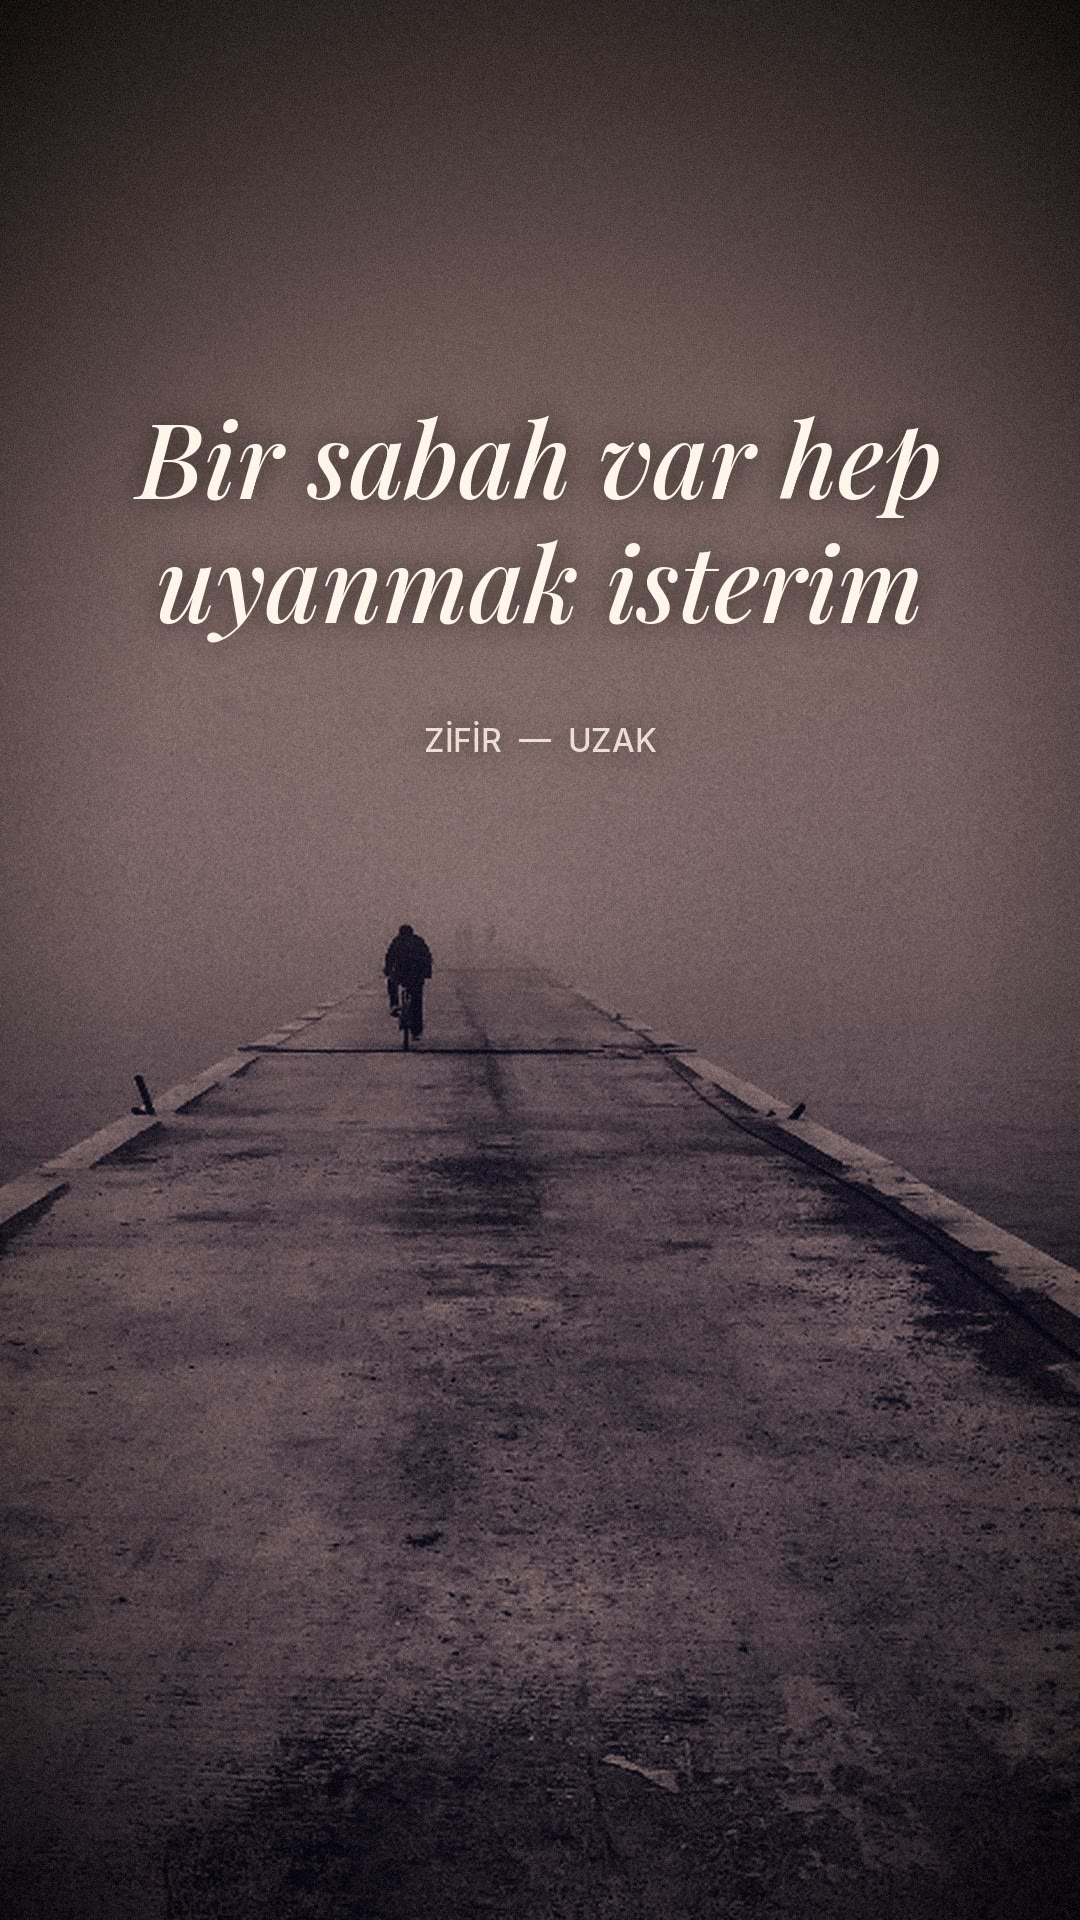
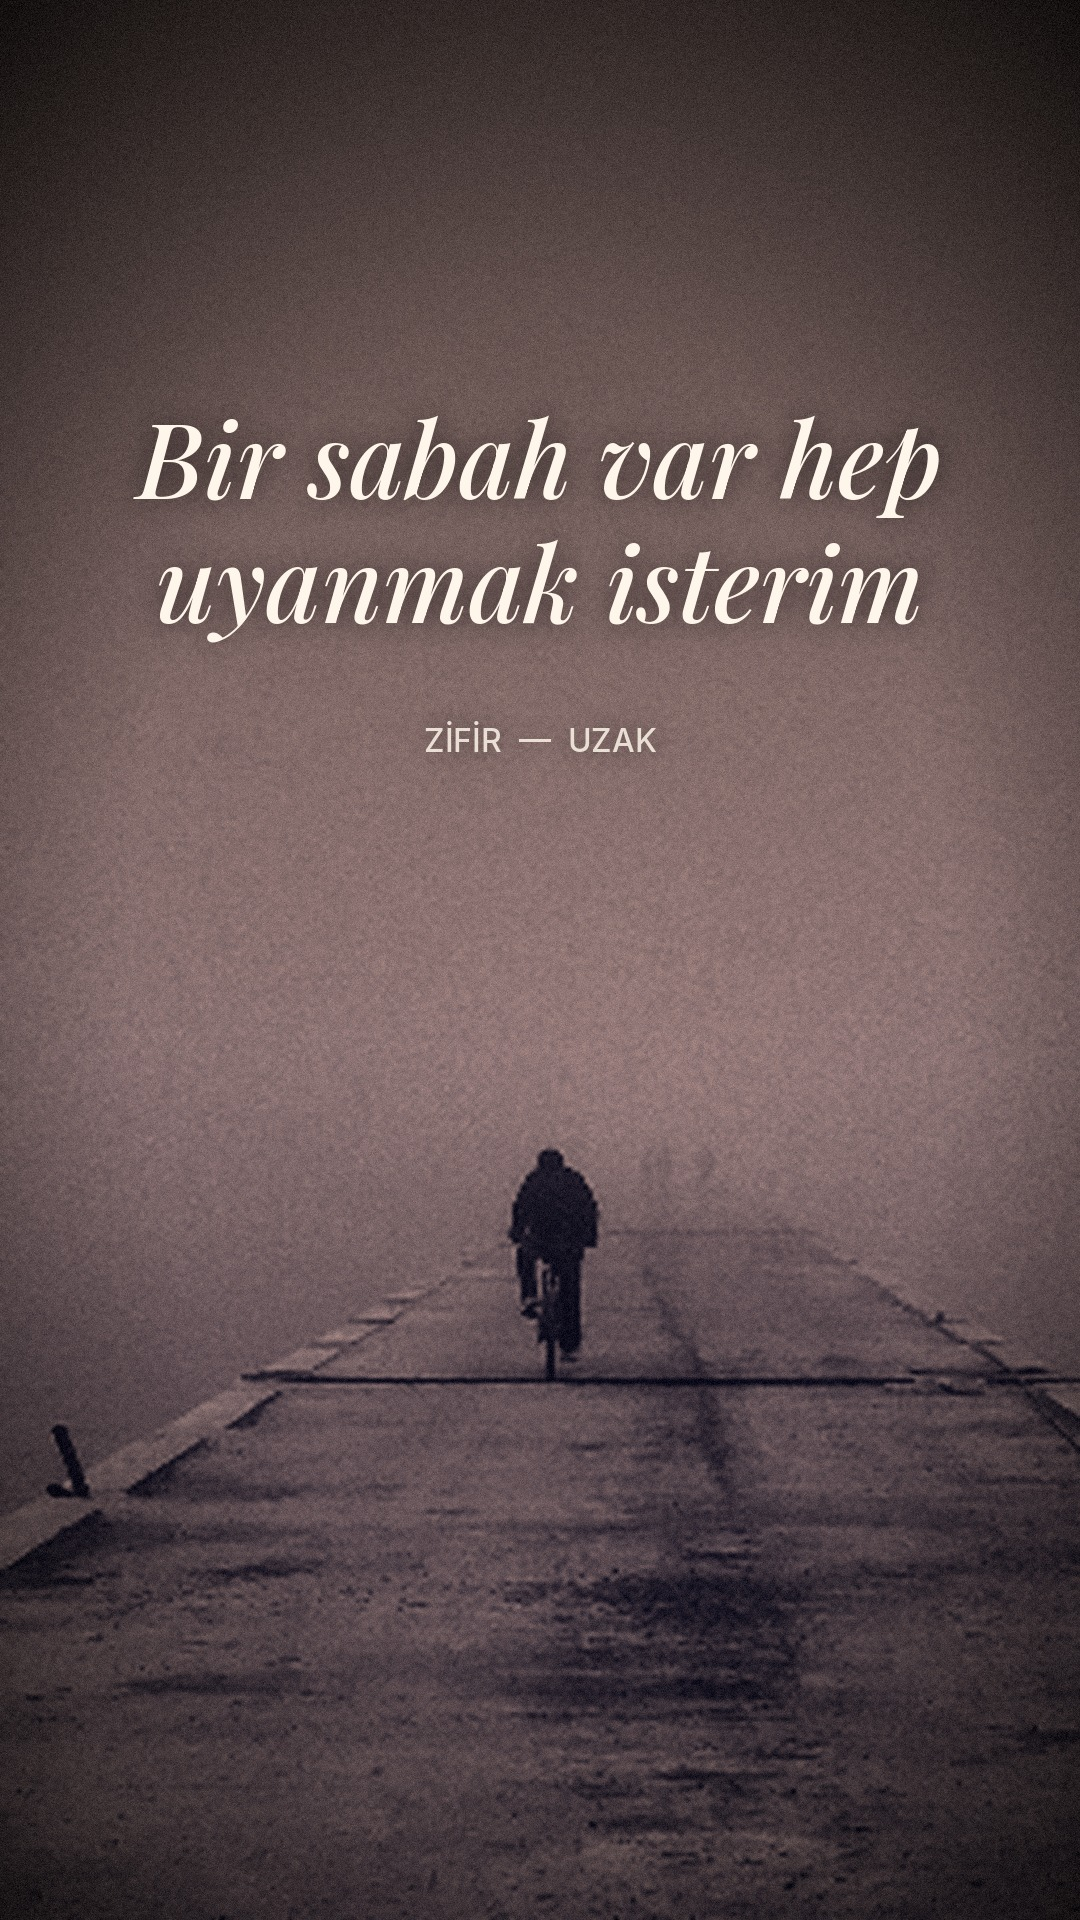
Zifir: 5 reel kapağında insan figürü büyütüldü (videolar aynı) (#84)
Claude-Session: https://claude.ai/code/session_01Sk3iG6pC65BoVAzftugVwW

Changed region(s): [[0.0, 0.4062, 1.0, 1.0]]

diff --git a/.claude/zifir/voice.md b/.claude/zifir/voice.md
@@ -70,7 +70,7 @@ Kullanıcı romantik/duygusal yorum cümlelerini ("onu en iyi tanıyan bendim",
 
 - **Video:** Ekstra yazı yok. Yalnızca şarkıyla akan sözler ve altta küçük
   `ZİFİR — UZAK` künyesi.
-- **Kapak:** Mutlaka insan görünür. Videoda çalan kısımdan bir satır, şarkıdaki haliyle, büyük;
+- **Kapak:** Mutlaka insan görünür ve telefonda net seçilir (figür küçükse `kapak_foto.py` yakınlaştırma ile büyütülür; kapak boyunun en az ~%8'i). Videoda çalan kısımdan bir satır, şarkıdaki haliyle, büyük;
   altında `ZİFİR — UZAK`. Arka planda insan olan bir fotoğraf (`stok/`,
   Pexels; yüz net görünmez), videonun sahnesine göre filtrelenir
   (`uretici/kapak_foto.py`: kalp, yagmur, sicak-yagmur, agac, gece, mum,
